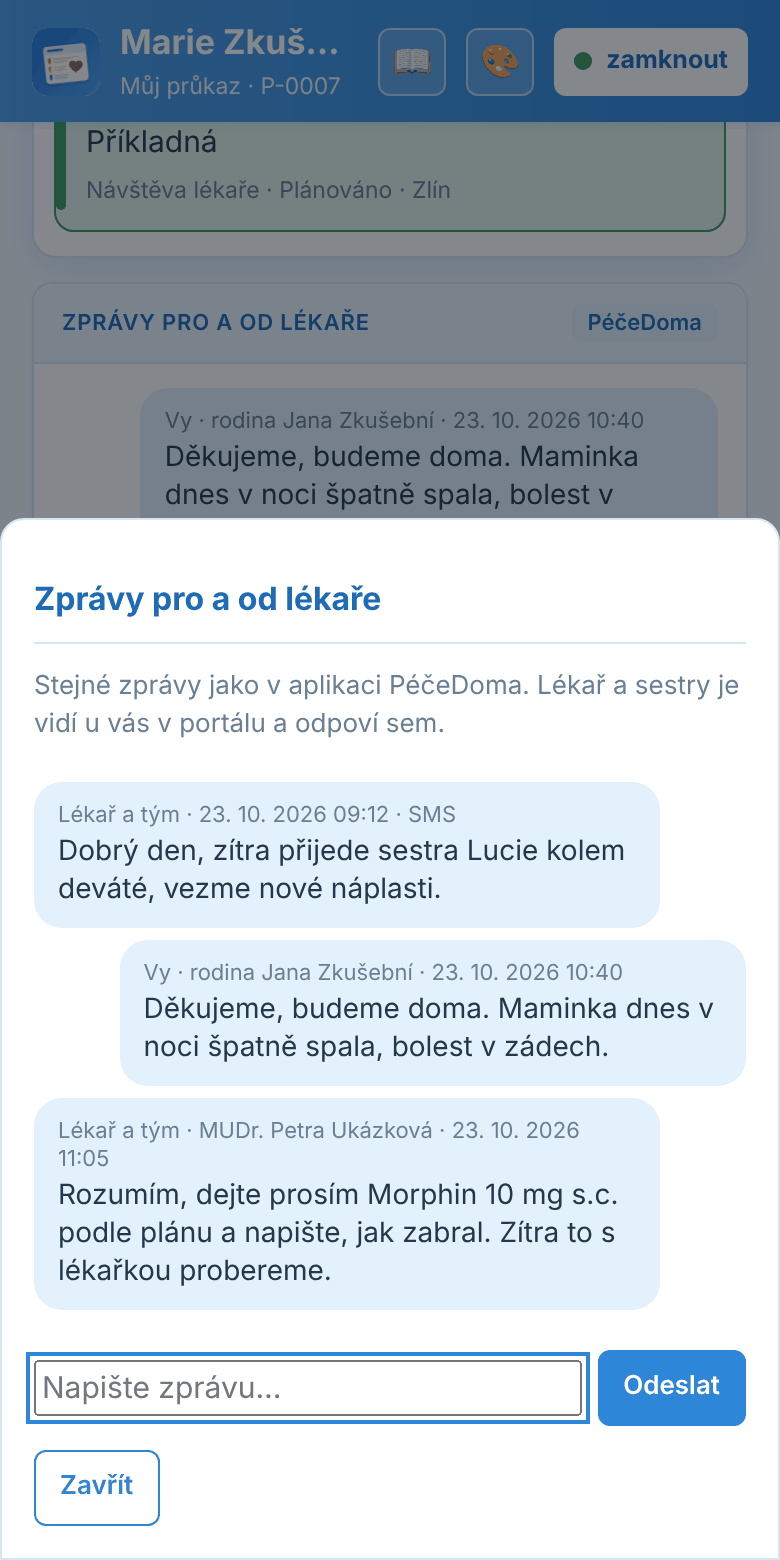
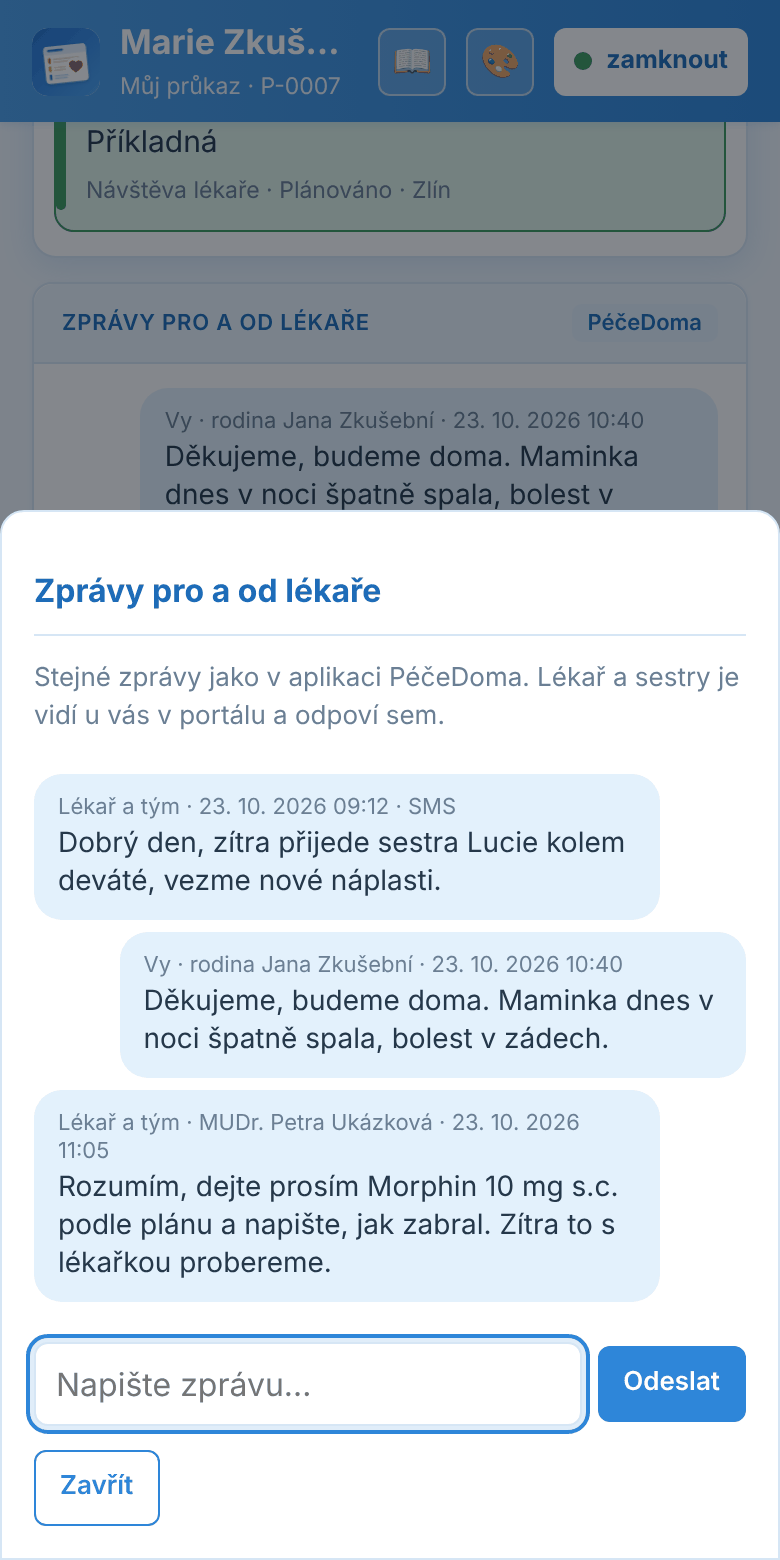
Vzhled: jednotná políčka a výběry ve všech obrazovkách (0.11.8)
- jedno pravidlo pro input/select/textarea i mimo .field (filtr v Lidé
  a týmy, tabulka importu, hledání klienta PéčeDoma, poznámka u zhoršení)
- v telefonu 42 px i v oknech, která jsou mimo kontejner aplikace
- snímkový skript hlídá stejnou výšku všech viditelných políček

Claude-Session: https://claude.ai/code/session_01VcT9eaBqjfAENSa8MjpT1n

Changed region(s): [[0.0308, 0.3692, 0.9538, 0.9231], [0.0, 0.3077, 1.0, 0.3385], [0.7077, 0.4, 0.9538, 0.4615]]

diff --git a/public/karta/index.html b/public/karta/index.html
@@ -31,7 +31,7 @@ try { var _v = localStorage.getItem('kp_vzhled'); if (_v === 'tmava') document.d
  *  - krizová karta bez přihlášení (ZZS), pečující PINem, lékař kódem z centrální aplikace (obojí ověřeno offline)
  *  - zápisy bez signálu čekají ve frontě, odešlou se při nejbližším připojení; plán jen ze serveru
  */
-const APP_VERZE = 'karta-0.11.7';
+const APP_VERZE = 'karta-0.11.8';
 const { esc, toast, modal, closeModal, fmtD, fmtDT, CILE } = KP;
 const $ = (id) => document.getElementById(id);
 let KARTY = [];               // průkazy v tomto telefonu (od 0.11.0 jich může být víc – např. jeden telefon v domově seniorů pro více pacientů)
@@ -327,7 +327,7 @@ function denikHTML(denik) {
 function zhorseniHTML(b, zh) {
   const first = (b.kontakty || []).find((k) => /hospic/i.test(k.jmeno)) || (b.kontakty || []).find((k) => k.skupina === 'pecuje');
   return `<div class="panel"><div class="panel-h"><h2>Průvodce: co se děje</h2></div><div class="form" style="padding:14px">
-      <div class="field"><label>1. Co pozoruji</label><div class="checks" id="z_sym">${['dušnost', 'bolest', 'neklid / zmatenost', 'horečka', 'nepřijímá tekutiny', 'pád', 'porucha vědomí', 'krvácení'].map((s) => `<label><input type="checkbox" value="${s}">${s}</label>`).join('')}</div><input id="z_pozn" placeholder="doplnění vlastními slovy" style="margin-top:6px;border:1px solid var(--line);border-radius:11px;padding:10px"></div>
+      <div class="field"><label>1. Co pozoruji</label><div class="checks" id="z_sym">${['dušnost', 'bolest', 'neklid / zmatenost', 'horečka', 'nepřijímá tekutiny', 'pád', 'porucha vědomí', 'krvácení'].map((s) => `<label><input type="checkbox" value="${s}">${s}</label>`).join('')}</div><input id="z_pozn" placeholder="doplnění vlastními slovy" style="margin-top:6px"></div>
       <div class="field"><label>2. Co jsem už udělal(a)</label><div class="checks" id="z_akce">${['podán SOS lék', 'poloha / kyslík', 'zklidnění, přítomnost', 'změřeny funkce'].map((s) => `<label><input type="checkbox" value="${s}">${s}</label>`).join('')}</div></div>
       <div class="field"><label>3. Komu jsem volal(a)</label><div class="checks" id="z_vol">${['hospic', 'lékař plánu', 'praktický lékař', 'rodina / zástupce', '155'].map((s) => `<label><input type="checkbox" value="${s}">${s}</label>`).join('')}</div></div>
       <button class="btn crit" id="btnZ">Zapsat zhoršení a zobrazit na kartě</button></div></div>

diff --git a/public/shared/kp.css b/public/shared/kp.css
@@ -156,12 +156,14 @@ h1,h2,h3{margin:0;text-wrap:balance}
 .form{display:grid;gap:12px}
 .field{display:grid;gap:5px}
 .field label{font-size:11px;font-weight:600;color:var(--muted)}
-.field input,.field select,.field textarea{border:1px solid var(--line);border-radius:7px;padding:7px 10px;background:var(--surface);width:100%;min-width:0;font-size:13px;height:38px;min-height:38px}
+/* jednotný vzhled všech políček a výběrů (i mimo .field – filtry, tabulky, hledání): stejná výška jako .btn */
+input:not([type=checkbox]):not([type=radio]):not([type=file]):not([type=range]),select,textarea{border:1px solid var(--line);border-radius:7px;padding:7px 10px;background:var(--surface);color:var(--fg);width:100%;min-width:0;font-size:13px;height:38px;min-height:38px}
 .field input[type=checkbox],.field input[type=radio],.row input[type=checkbox]{width:16px;height:16px;min-height:0;padding:0;margin:0;accent-color:var(--accent)}
-.field textarea{height:auto;min-height:110px;resize:vertical;font-family:var(--font);font-size:13px;line-height:1.45}
-.app:not(.wide) .field input,.app:not(.wide) .field select{font-size:16px;height:42px;min-height:42px}
-.app:not(.wide) .field textarea{font-size:16px}
-.field input:focus,.field select:focus,.field textarea:focus{border-color:var(--accent);box-shadow:0 0 0 3px var(--stin);outline:none}
+textarea{height:auto;min-height:110px;resize:vertical;font-family:var(--font);font-size:13px;line-height:1.45}
+/* telefon (aplikace bez .wide): větší políčka – i v oknech, která jsou mimo .app */
+body:has(.app:not(.wide)) input:not([type=checkbox]):not([type=radio]):not([type=file]):not([type=range]),body:has(.app:not(.wide)) select{font-size:16px;height:42px;min-height:42px}
+body:has(.app:not(.wide)) textarea{font-size:16px}
+input:focus,select:focus,textarea:focus{border-color:var(--accent);box-shadow:0 0 0 3px var(--stin);outline:none}
 .frow{display:grid;grid-template-columns:1fr 1fr;gap:10px}
 .checks{display:flex;flex-wrap:wrap;gap:8px}
 .checks label{display:inline-flex;align-items:center;gap:6px;border:1px solid var(--line);border-radius:9px;padding:0 12px;cursor:pointer;font-size:12.5px;font-weight:600;height:34px;min-height:34px;background:var(--surface)}

diff --git a/public/centrala/index.html b/public/centrala/index.html
@@ -18,7 +18,6 @@ try { var _v = localStorage.getItem('kp_vzhled'); if (_v === 'tmava') document.d
   .who{font-size:12.5px;color:var(--muted);text-align:right;line-height:1.25}
   .anon{white-space:pre-wrap;font-family:var(--mono);font-size:12px;max-height:260px;overflow:auto;background:var(--surface-2);border-radius:10px;padding:10px}
   .kontrow{display:grid;grid-template-columns:1.3fr 1fr 1fr auto;gap:6px;align-items:center}
-  .kontrow input,.kontrow select{border:1px solid var(--line);border-radius:7px;padding:0 9px;height:38px;min-width:0;background:var(--surface);font-size:13px}
   @media (max-width:640px){.kontrow{grid-template-columns:1fr 1fr}}
   @media print{ .top,.nav,.tabs,.actions,.noprint,#modal,#toast{display:none!important} .card{box-shadow:none} }
 </style>

diff --git a/public/pacient/index.html b/public/pacient/index.html
@@ -55,7 +55,7 @@ try { var _v = localStorage.getItem('kp_vzhled'); if (_v === 'tmava') document.d
  *  - vše je v IndexedDB šifrované dvakrát: klíčem odvozeným z PINu pacienta (PBKDF2) a klíčem telefonu, který nejde vyexportovat;
  *    bez PINu z telefonu nic přečíst nejde – ani token pro spojení se serverem
  */
-const APP_VERZE = 'pacient-0.11.7';
+const APP_VERZE = 'pacient-0.11.8';
 const { esc, toast, modal, closeModal, fmtD, fmtDT, CILE } = KP;
 const $ = (id) => document.getElementById(id);
 let D = null;          // odemčená data: { tenant, token, zarizeniId, telefon, balik, posledniSync, parovano, odpojeno, moje:{…} }

diff --git a/public/pacient/sw.js b/public/pacient/sw.js
@@ -1,5 +1,5 @@
 /* Service worker aplikace Můj průkaz: aplikace funguje bez signálu (data jsou v IndexedDB, API se nekešuje). */
-const CACHE = 'kp-pacient-0.11.7';
+const CACHE = 'kp-pacient-0.11.8';
 const SHELL = ['/pacient/', '/shared/kp.css', '/shared/kp.js', '/icons/icon.svg', '/icons/icon-192.png', '/pacient/manifest.webmanifest', '/shared/kp-napoveda.js', '/shared/jsqr.min.js', '/api/napoveda'];
 
 self.addEventListener('install', (e) => { e.waitUntil(caches.open(CACHE).then((c) => c.addAll(SHELL)).then(() => self.skipWaiting())); });

diff --git a/public/karta/sw.js b/public/karta/sw.js
@@ -1,5 +1,5 @@
 /* Service worker karty: aplikace funguje bez signálu (data jsou v IndexedDB, API se nekešuje). */
-const CACHE = 'kp-karta-0.11.7';
+const CACHE = 'kp-karta-0.11.8';
 const SHELL = ['/karta/', '/shared/kp.css', '/shared/kp.js', '/icons/icon.svg', '/icons/icon-192.png', '/karta/manifest.webmanifest', '/shared/kp-napoveda.js', '/api/napoveda'];
 
 self.addEventListener('install', (e) => { e.waitUntil(caches.open(CACHE).then((c) => c.addAll(SHELL)).then(() => self.skipWaiting())); });

diff --git a/src/config.js b/src/config.js
@@ -43,7 +43,7 @@ export const config = {
   },
   // klíč pro partnerské API (/api/partner/* – PéčeDoma na stejném VPS si bere kód lékaře dne); prázdné = API vypnuté
   partnerKlic: env('KP_PARTNER_KLIC'),
-  verze: '0.11.7',
+  verze: '0.11.8',
 };
 
 export function zkontrolujKonfiguraci() {
